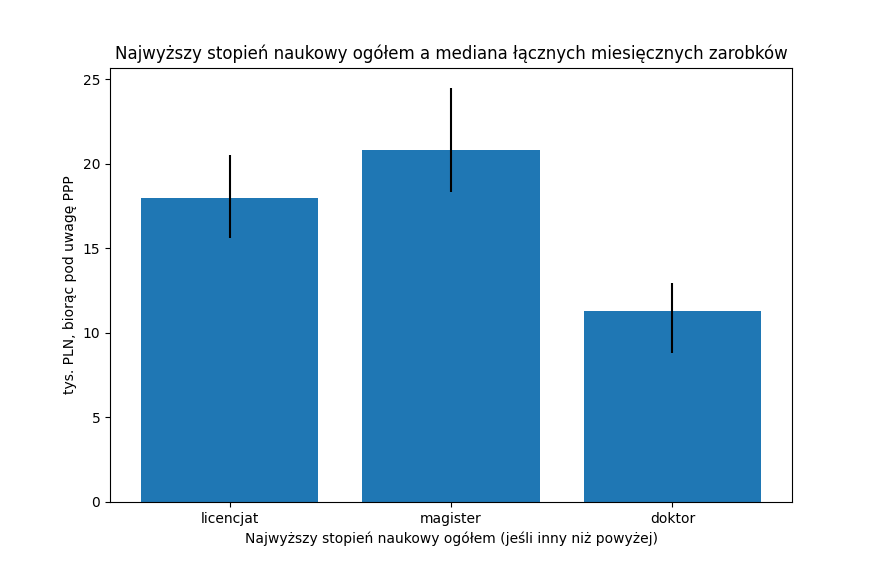
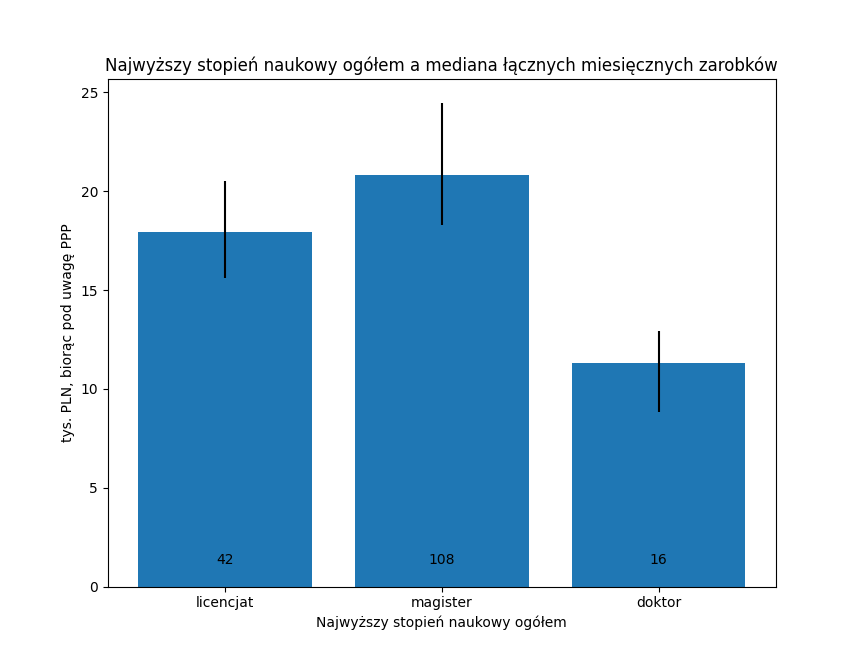
extra stuff in writeup based on comments

diff --git a/analysis.py b/analysis.py
@@ -167,24 +167,26 @@ def _prepare_legend(axes):
   return all_handles, all_labels
 
 
-def pie_per_degree(data, key):
-  filtered_data = [dict(r) for r in data if r[key]]
+def pie_per_degree(data, key, group_key):
+  filtered_data = [dict(r) for r in data if r[key] and r[group_key]]
   for i, r in enumerate(filtered_data):
     if "Stany Zjednoczone Ameryki" in r[key]:
       r[key] = "USA"
 
   per_degree = collections.defaultdict(lambda: [])
   for r in filtered_data:
-    per_degree[r[DEGREE]].append(r)
+    per_degree[r[group_key]].append(r)
   
   degrees = [degree
       for degree, responses in per_degree.items() if len(responses) >= 5]
 
   groups_overall = _ordered_counter(filtered_data, key)
+  print("here", groups_overall, degrees)
 
   all_colors = dict(zip(["inne"] + list(groups_overall.keys()),
     ["tab:grey", "tab:green", "tab:red", "tab:blue", "tab:orange", "tab:olive",
-     "tab:purple", "tab:brown", "tab:cyan",]))
+     "tab:purple", "tab:brown", "tab:cyan", "black", "yellow", "red", "green", "blue", "white", "pink", "purple"]))
+  print("all_colors", all_colors)
 
   groups_overall = _process_small_groups(groups_overall)
 
@@ -192,49 +194,34 @@ def pie_per_degree(data, key):
   fig, axes = plt.subplots(2, (len(degrees) + 2)//2)
   axes = axes.flatten()
   labels = [_process_label(l) for l in groups_overall.keys()]
+  # TODO: consider giving absolute numbers instead of percentage with
+  def autopct_format(values):
+    def my_format(pct):
+        total = sum(values)
+        val = int(round(pct*total/100.0))
+        return '{v:d}'.format(v=val)
+    return my_format
+
   axes[0].pie(groups_overall.values(), labels=labels, autopct='%1.0f%%', colors=colors)
   axes[0].set_title("ogółem")
 
   for did, d in enumerate(degrees):
+    print(d)
     axes[did + 1].set_title(d)
     within_degree_values = _ordered_counter(per_degree[d], key)
     within_degree_values = _process_small_groups(within_degree_values)
 
+    print("all_colors", all_colors)
+
     colors = [all_colors[c] for c in within_degree_values.keys()]
+    print("colors", colors)
 
     labels = [_process_label(l) for l in within_degree_values.keys()]
+    print("labels", labels)
     axes[did + 1].pie(within_degree_values.values(), labels=labels, autopct='%1.0f%%', colors=colors)
 
   handles, labels = _prepare_legend(axes)
   # fig.legend(handles, labels)
-
-  fig.show()
-
-
-def gender_plots(data):
-  filtered_data = [dict(r) for r in data if r[GENDER]]
-
-  per_degree = collections.defaultdict(lambda: [])
-  for r in filtered_data:
-    per_degree[r[DEGREE]].append(r)
-  
-  degrees = [degree
-      for degree, responses in per_degree.items() if len(responses) >= 5]
-
-  genders_overall = _ordered_counter(filtered_data, GENDER)
-
-  all_colors = dict(zip(genders_overall.keys(),
-    ["tab:green", "tab:red", "tab:blue", "tab:orange", "tab:olive"]))
-
-  fig, axes = plt.subplots(1, len(degrees) + 1)
-  axes[0].pie(genders_overall.values(), labels=genders_overall.keys(), autopct='%1.0f%%', colors=all_colors.values())
-  axes[0].set_title("ogółem")
-
-  for did, d in enumerate(degrees):
-    axes[did + 1].set_title(d)
-    within_degree_genders = _ordered_counter(per_degree[d], GENDER)
-    colors = [all_colors[c] for c in within_degree_genders.keys()]
-    axes[did + 1].pie(within_degree_genders.values(), labels=within_degree_genders.keys(), autopct='%1.0f%%', colors=colors)
 
   fig.show()
 
@@ -407,16 +394,19 @@ def median_comp_in_group(data, group):
   plt.figure()
   if group == HIGHEST_EDUCATION:
     title_group = "Najwyższy stopień naukowy ogółem"
+  elif group == DEGREE:
+    title_group = "Kierunek"
   else:
     title_group = group
 
   plt.title(f"{title_group} a mediana łącznych miesięcznych zarobków")
   plt.ylabel("tys. PLN, biorąc pod uwagę PPP")
-  plt.xlabel(group)
+  plt.xlabel(title_group)
 
   group_medians = []
   deviations = []
   canonical_values = []
+  num_samples = []
 
   for g in group_values:
     if '/' in g:
@@ -432,10 +422,30 @@ def median_comp_in_group(data, group):
     lower_perc = group_median_ppp - np.percentile(incomes_ppp, 50-k)
     higher_perc = np.percentile(incomes_ppp, 50+k) - group_median_ppp
     deviations.append([lower_perc, higher_perc])
+    num_samples.append(len(incomes_ppp))
 
-  plt.bar(list(range(len(group_medians))), group_medians, yerr=list(zip(*deviations)))
+  bars = plt.bar(list(range(len(group_medians))), group_medians, yerr=list(zip(*deviations)))
 
   plt.xticks(list(range(len(group_medians))), canonical_values)
+  for idx, rect in enumerate(bars):
+    height = rect.get_height()
+    plt.text(rect.get_x() + rect.get_width()/2., 1., num_samples[idx],
+             ha='center', va='bottom')
+
+  plt.show()
+
+
+def abroad_graduation_year(data):
+  filtered_data = [r for r in data if r[COUNTRY] and r[GRADUATION_YEAR]]
+  graduation_years = sorted(list(set([r[GRADUATION_YEAR] for r in filtered_data])))
+
+  perc_abroad = []
+  for g in graduation_years:
+    subdata = [0. if r[COUNTRY] == "Polska" else 1. for r in filtered_data if r[GRADUATION_YEAR] == g]
+    perc_abroad.append(np.mean(subdata))
+
+  plt.bar(list(range(len(graduation_years))), perc_abroad)
+  plt.xticks(list(range(len(graduation_years))), graduation_years)
 
   plt.show()
 
@@ -454,9 +464,12 @@ def filling_time(data):
 
 
 def to_run(data):
-  pie_per_degree(data, COUNTRY)
-  pie_per_degree(data, GENDER)
-  pie_per_degree(data, PROFESSION)
+  pie_per_degree(data, COUNTRY, DEGREE)
+  pie_per_degree(data, GENDER, DEGREE)
+  pie_per_degree(data, PROFESSION, DEGREE)
+  pie_per_degree(data, COUNTRY, HIGHEST_EDUCATION)
+  pie_per_degree(data, PROFESSION, HIGHEST_EDUCATION)
+  pie_per_degree(data, PROFESSION, EMPLOYMENT_KIND)
   comp_distribution(data)
   base_vs_total_comp(data)
   working_hours_dist(data)

diff --git a/writeup.md b/writeup.md
@@ -49,21 +49,38 @@ Przy podawaniu statystyk dla grup, pominąłem grupy o mniej niż 5-ciu członk
 
 ![Płeć a kierunek](plots/degree_gender.png){width=80% height=80%}
 
-![Zawód a kierunek](plots/degree_profession.png){width=80% height=80%}
+![Zawód a kierunek. Dla oszczędności miejsca, CEO oznacza odpowiedź "CEO/założyciel", aktuariusz "aktuariusz/analityk finansowy/finansista", team lead "team lead/engineering manager", a nauczyciel "nauczyciel/prowadzący szkolenia". ](plots/degree_profession.png){width=80% height=80%}
 
 ![Kraj a kierunek](plots/degree_country.png){width=80% height=80%}
 
+### Zależność cech od stopnia naukowego
+
+![Kraj a stopień naukowy](plots/education_country.png){width=70% height=70%}
+
+![Zawód a stopień naukowy. Dla oszczędności miejsca, CEO oznacza odpowiedź "CEO/założyciel", aktuariusz "aktuariusz/analityk finansowy/finansista", team lead "team lead/engineering manager", a nauczyciel "nauczyciel/prowadzący szkolenia". ](plots/education_profession.png){width=80% height=80%}
+
+### Zawód przy różnych sposobach zatrudnienia
+
+![Zawód a sposób zatrudnienia. Dla oszczędności miejsca, CEO oznacza odpowiedź "CEO/założyciel", aktuariusz "aktuariusz/analityk finansowy/finansista", team lead "team lead/engineering manager", a nauczyciel "nauczyciel/prowadzący szkolenia". ](plots/employment_kind_profession.png){width=80% height=80%}
+
 ### Zależność zarobków od cech
 
-Słupki błędu odpowiadają centylom: 40-60 wokół mediany.
+Słupki błędu odpowiadają centylom: 40-60 wokół mediany. Zarobki/pensje są podane brutto. Małe liczby na dole słupków określają liczbę osób w danej grupie (wielkość próbki).
+
+Pełne pytania o zarobki:
+
+- Podstawowa roczna pensja w narodowej walucie tego kraju. Podstawowa pensja brutto, bez bonusów, 13-tek, wartości akcji (base salary). W przypadku absolwentów kończących studia w 2019, proszę podać zarobki z 2019 przeskalowane do całego roku.
+- Łączne roczne zarobki w narodowej walucie tego kraju. Zarobki brutto łącznie z bonusami, 13-tkami, wartością zvestowanych akcji (total compensation), jeśli inne niż powyżej.
 
 ![Zarobki a kraj. Słupki błędu odpowiadają centylom: 40-60 wokół mediany.](plots/country_comp.png){width=80% height=80%}
 
-![Zarobki a zawód](plots/profession_comp.png){width=80% height=80%}
+![Zarobki a zawód. Dla oszczędności miejsca, CEO oznacza odpowiedź "CEO/założyciel", aktuariusz "aktuariusz/analityk finansowy/finansista", team lead "team lead/engineering manager", a nauczyciel "nauczyciel/prowadzący szkolenia".](plots/profession_comp.png){width=80% height=80%}
 
 ![Zarobki a kierunek](plots/degree_comp.png){width=80% height=80%}
 
-![Zarobki a stopień naukowy](plots/education_comp.png){width=80% height=80%}
+![Zarobki a stopień naukowy](plots/education_comp.png){width=70% height=70%}
+
+![Zarobki osób ze stopniem doktora a zatrudnienie jako pracownik akademicki lub nie](plots/phd_industry_or_not.png){width=80% height=80%}
 
 ![Zarobki a płeć](plots/gender_comp.png){width=80% height=80%}
 
@@ -79,7 +96,7 @@ Słupki błędu odpowiadają centylom: 40-60 wokół mediany.
 
 ![Liczba godzin pracy w tygodniu](plots/work_hours.png){width=80% height=80%}
 
-![W jakim stopniu studia MIMie pomogłby Ci w osiągnięciu obecnej kariery](plots/mim_satisfaction.png){width=80% height=80%}
+![W jakim stopniu studia MIMie pomogły Ci w osiągnięciu obecnej kariery](plots/mim_satisfaction.png){width=80% height=80%}
 
 ![Moment wypełnienia ankiety](plots/filling_time_dist.png){width=80% height=80%}
 
